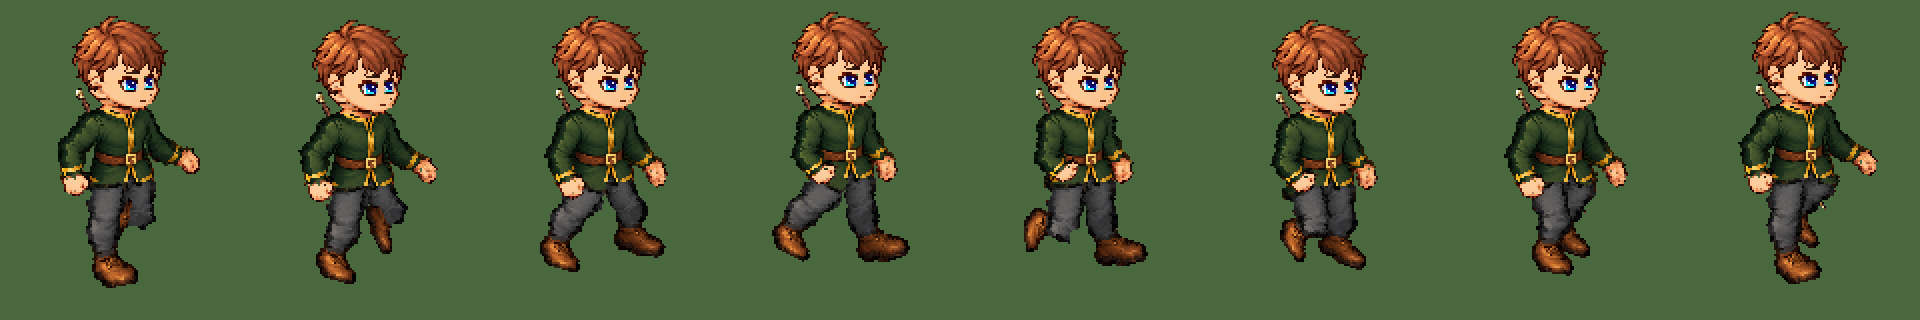
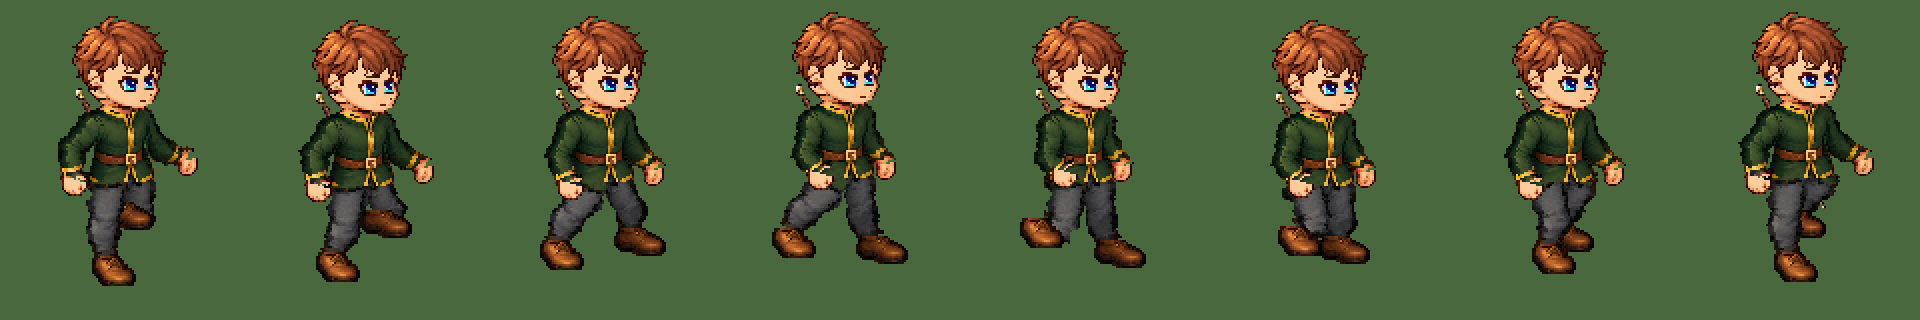
proto(美术): 骨骼 v2 原型里鞋子和手保持原画像素，不再随关节扭曲
- 鞋、手只按踝/腕位置平移，不旋转不拉伸
- 裤腿、袖子仍随膝/肘弯曲；腿部皮肤裁剪到衣物轮廓内

Claude-Session: https://claude.ai/code/session_01JLEecV69iEdowXBkP6YJkU

diff --git a/scripts/p1-skeleton-v2/anim.py b/scripts/p1-skeleton-v2/anim.py
@@ -78,25 +78,62 @@ def pose(direction, p, sel=None, params=None):
         es = ss + skel.project(direction, *e) + np.array([alat1, 0])
         ws = ss + skel.project(direction, *w) + np.array([alat1 + alat2, 0])
         rig[side, 'arm'] = [(sh, el, ss, es), (el, wr, es, ws)]
+    def rigid(im, anchor, target, canvas=canvas):
+        """Exact pixels, translated so `anchor` lands on `target` (no rotation, no scaling)."""
+        dx, dy = (int(round(v)) for v in (target - anchor))
+        a = np.roll(np.array(im), (dy, dx), axis=(0, 1))
+        m = a[..., 3] > 0
+        canvas[m] = a[m]
+
+    def segment(im, rows, joint, canvas=canvas):
+        (p0, c0, P0, C0), (p1, c1, P1, C1) = joint
+        upper = skel.Piece(im, (rows[0], int(c0[1]) + 3))
+        lower = skel.Piece(im, (int(c0[1]) - 2, rows[1]))
+        for piece, (sp, sc, dp, dc) in ((lower, (p1, c1, P1, C1)), (upper, (p0, c0, P0, C0))):
+            sd, dd = sc - sp, dc - dp
+            piece.draw(canvas, sp, sd, dp, dd, np.linalg.norm(dd) / np.linalg.norm(sd))
+        # joint cap: a disc of source pixels around the joint, rotated halfway
+        r = 4 if np.linalg.norm(c1 - c0) > 14 else 3
+        disc = np.array(im).copy()
+        yy, xx = np.mgrid[0:256, 0:256]
+        disc[((xx - c0[0]) ** 2 + (yy - c0[1]) ** 2 > r * r) | (yy < rows[0]) | (yy >= rows[1])] = 0
+        d0 = (c0 - p0) / np.linalg.norm(c0 - p0) + (c1 - p1) / np.linalg.norm(c1 - p1)
+        d1 = (C0 - P0) / np.linalg.norm(C0 - P0) + (C1 - P1) / np.linalg.norm(C1 - P1)
+        skel.Piece(Image.fromarray(disc)).draw(canvas, c0, d0, C0, d1)
+
+    legs_buf = {}
+    last_leg_slot = {}
+    for slot, _ in idle:
+        if slot in slot_side and slot_side[slot][1] == 'leg':
+            last_leg_slot[slot_side[slot][0]] = slot
     for slot, im in idle:
         if slot in slot_side:
             side, kind = slot_side[slot]
-            (p0, c0, P0, C0), (p1, c1, P1, C1) = rig[side, kind]
-            split = c0[1]
-            upper = skel.Piece(im, (-999, int(split) + 3))
-            lower = skel.Piece(im, (int(split) - 2, 999))
-            for piece, (sp, sc, dp, dc) in ((lower, (p1, c1, P1, C1)), (upper, (p0, c0, P0, C0))):
-                sd, dd = sc - sp, dc - dp
-                piece.draw(canvas, sp, sd, dp, dd, np.linalg.norm(dd) / np.linalg.norm(sd))
-            # joint cap: a disc of source pixels around the joint, rotated halfway
-            r = 4 if kind == 'leg' else 3
-            disc = np.array(im).copy()
-            yy, xx = np.mgrid[0:256, 0:256]
-            disc[(xx - c0[0]) ** 2 + (yy - c0[1]) ** 2 > r * r] = 0
-            cap = skel.Piece(Image.fromarray(disc))
-            d0 = (c0 - p0) / np.linalg.norm(c0 - p0) + (c1 - p1) / np.linalg.norm(c1 - p1)
-            d1 = (C0 - P0) / np.linalg.norm(C0 - P0) + (C1 - P1) / np.linalg.norm(C1 - P1)
-            cap.draw(canvas, c0, d0, C0, d1)
+            joint = rig[side, kind]
+            end_src, end_dst = joint[1][1], joint[1][3]
+            if kind == 'leg':
+                # Legs build in their own buffers; the skin leg only shows inside the clothing.
+                skin, cloth = legs_buf.setdefault(side, (np.zeros_like(canvas), np.zeros_like(canvas)))
+                if slot.startswith('body.leg'):
+                    cut = int(end_src[1])
+                    segment(im, (-999, cut + 2), joint, skin)
+                    foot = np.array(im).copy(); foot[:cut - 1] = 0
+                    rigid(Image.fromarray(foot), end_src, end_dst, skin)
+                elif slot.startswith('outfit.boot'):
+                    rigid(im, end_src, end_dst, cloth)   # shoes keep their exact pixels
+                else:
+                    segment(im, (-999, 999), joint, cloth)
+                if slot == last_leg_slot[side]:
+                    covered = cloth[..., 3] > 0
+                    if covered.any():
+                        skin[~covered] = 0
+                    for layer in (skin, cloth):
+                        m = layer[..., 3] > 0
+                        canvas[m] = layer[m]
+            elif slot.startswith('body.hand'):
+                rigid(im, end_src, end_dst)              # hands keep their exact pixels
+            else:
+                segment(im, (-999, 999), joint)          # sleeves bend at the elbow
         else:
             a = np.array(im)
             if bob:
